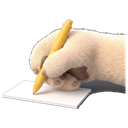
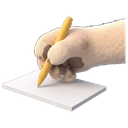
иконки: тонкое запястье у всех трёх лап
Модель рисовала ногу той же толщины, что и лапа, и на 128 px кадр читался
как кусок меха, а не как жест. Клауза PAW теперь требует запястье вдвое
уже лапы, чтобы лапа оставалась самой крупной формой в кадре.
Перегенерированы все три: палец вверх, палец вниз, пишущая лапа.

Claude-Session: https://claude.ai/code/session_01P6FbspjU9fFr6Gxc8sAvGG

diff --git a/иконки/prompt-each.md b/иконки/prompt-each.md
@@ -111,6 +111,9 @@ fingers, never a glove. There is no badge in a PAW image: no circle, no rays, no
 gradient, just the paw on flat grey background. Everything in the image is in
 sharp focus: there is no depth of field, no blur, and nothing at all behind the
 paw — no second paw, no out-of-focus shape, no object in the background.
+The wrist and the leg behind the paw are SLIM — clearly
+thinner than the paw itself, about half its width — so that the paw stays the
+biggest shape in the image. The leg is never as thick as the paw.
 Show ONLY the paw itself,
 cropped at the wrist: no forearm, no leg, no shoulder, nothing of the rest of
 him. The paw is centred and fills most of the frame — it is the same size in
@@ -182,6 +185,10 @@ no label, no watermark, no border, no frame.
 предплечье уходит к левому краю, и жест отличается только направлением
 большого пальца. Когда рука входила снизу у одной и сверху у другой, две
 кнопки рядом выглядели как разные наборы.
+
+**Запястье тонкое** — вдвое уже самой лапы. Без этого модель рисует ногу
+той же толщины, что и лапа, и на 128 px кадр читается как кусок меха,
+а не как жест.
 
 **Якорь для лапы — лапа, а не морда.** Прогон со стилевым якорем-мордой
 протащил в кадр кепку с ушами, хотя клауза их прямо запрещает: образец
